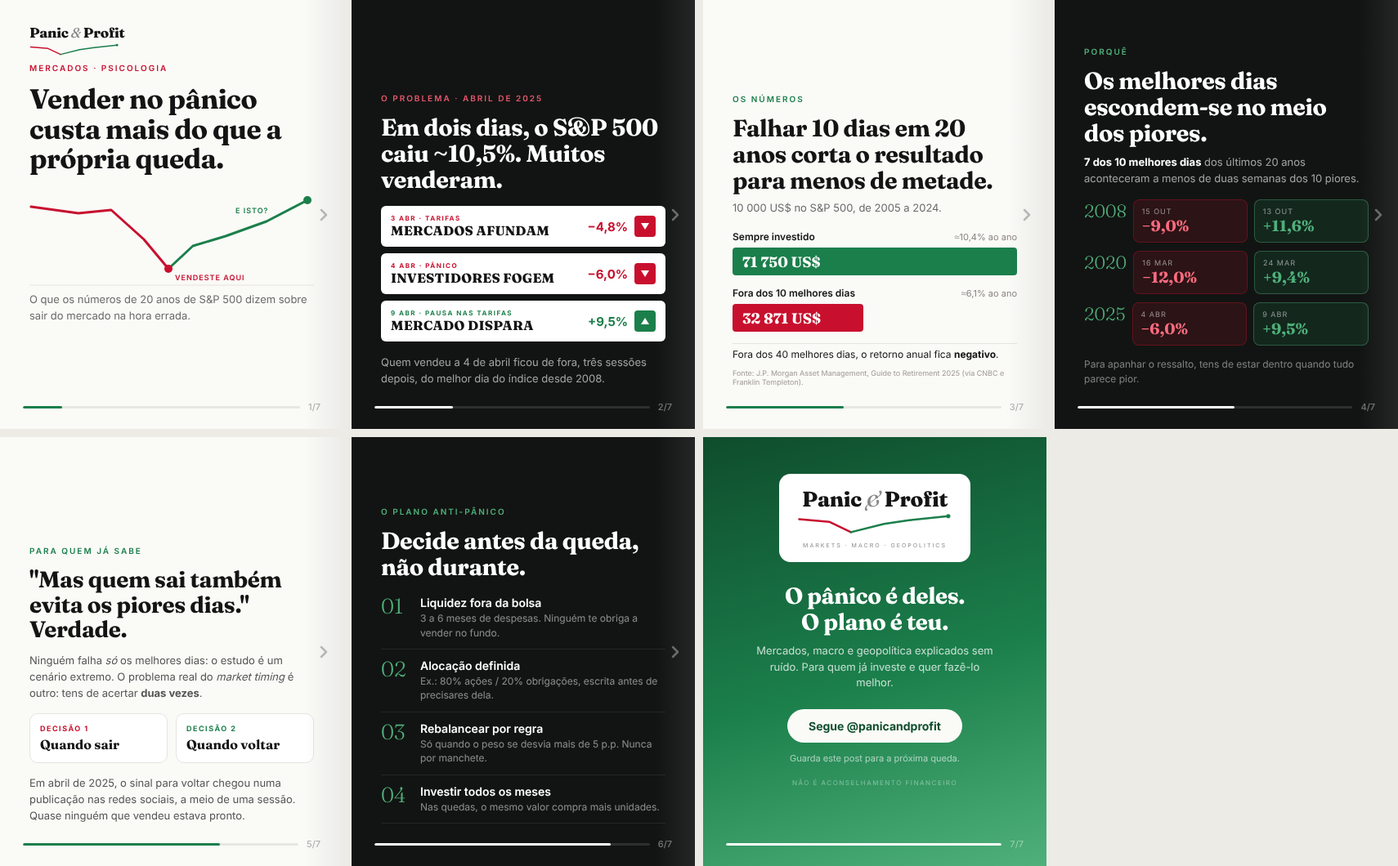
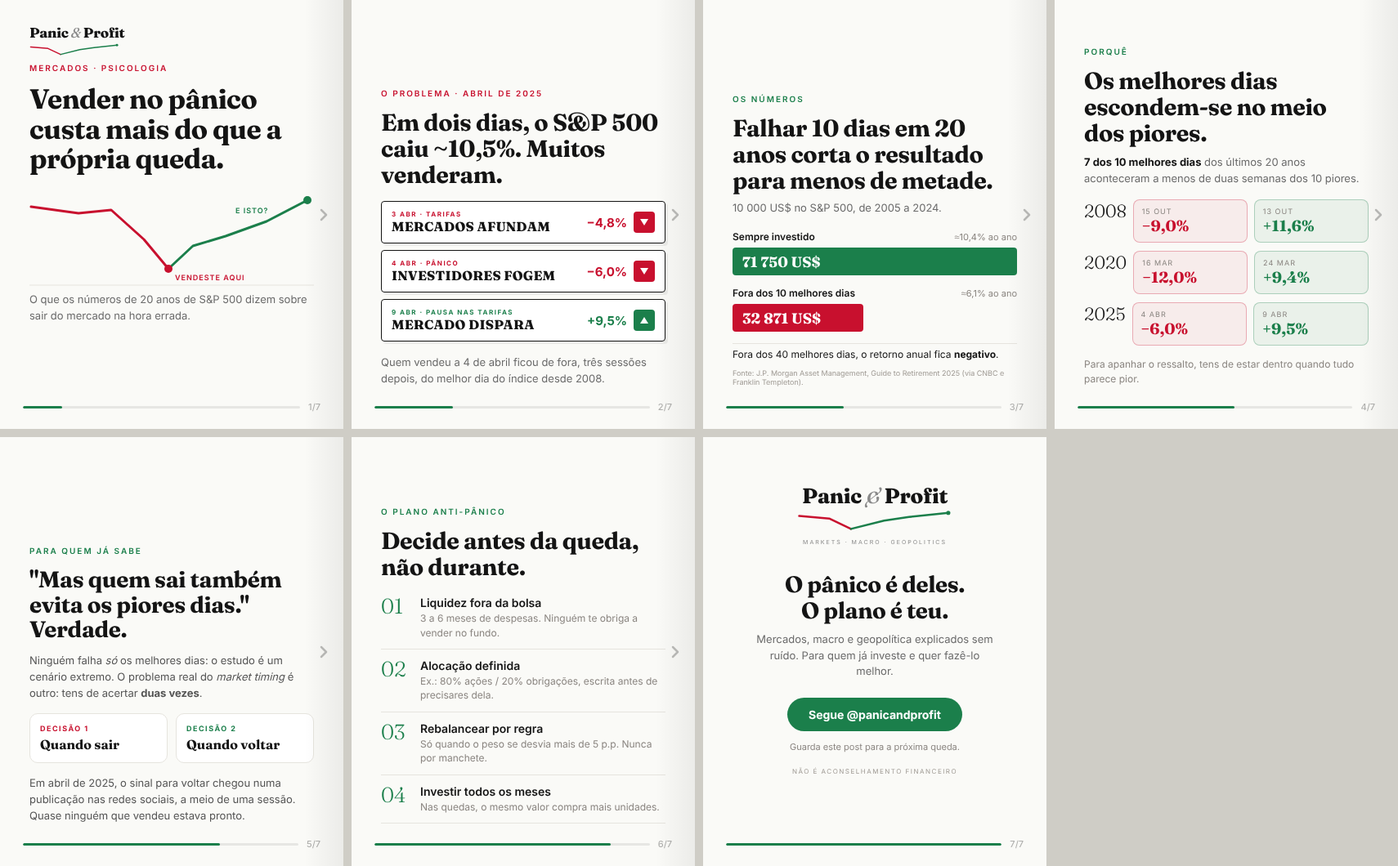
Carousel #1: all slides on light background
Claude-Session: https://claude.ai/code/session_01HEfkBjtX9jJLAwHVacHrK9

diff --git a/instagram/panic-and-profit/carrossel_01_panico.html b/instagram/panic-and-profit/carrossel_01_panico.html
@@ -35,26 +35,26 @@ body{background:#ECEBE6;font-family:'Inter',sans-serif;display:flex;justify-cont
 <text x="252" y="30" font-family="Inter" font-size="9" font-weight="600" fill="#1B7F4B" letter-spacing="1">E ISTO?</text>
 </svg>
 <p class="sans" style="font-size:13px;color:#6B6B6B;line-height:1.5;">O que os números de 20 anos de S&amp;P 500 dizem sobre sair do mercado na hora errada.</p></div>
-<div style="position:absolute;right:0;top:0;bottom:0;width:48px;z-index:9;display:flex;align-items:center;justify-content:center;background:linear-gradient(to right,transparent,rgba(0,0,0,0.06));"><svg width="24" height="24" viewBox="0 0 24 24" fill="none"><path d="M9 6l6 6-6 6" stroke="rgba(0,0,0,0.25)" stroke-width="2.5" stroke-linecap="round" stroke-linejoin="round"/></svg></div><div style="position:absolute;bottom:0;left:0;right:0;padding:16px 28px 20px;z-index:10;display:flex;align-items:center;gap:10px;"><div style="flex:1;height:3px;background:rgba(0,0,0,0.08);border-radius:2px;overflow:hidden;"><div style="height:100%;width:14.29%;background:#1B7F4B;border-radius:2px;"></div></div><span class="sans" style="font-size:11px;color:rgba(0,0,0,0.3);font-weight:500;">1/7</span></div></div><div class="slide" style="background:#121413;">
-<div style="position:absolute;inset:0;padding:0 36px 52px;display:flex;flex-direction:column;justify-content:flex-end;z-index:2;"><span class="sans" style="display:inline-block;font-size:10px;font-weight:600;letter-spacing:2px;color:#E8566C;margin-bottom:14px;">O PROBLEMA · ABRIL DE 2025</span>
-<h2 class="serif" style="font-size:29px;font-weight:700;line-height:1.1;letter-spacing:-0.4px;color:#fff;margin-bottom:16px;">Em dois dias, o S&amp;P 500 caiu ~10,5%. Muitos venderam.</h2>
-<div style="display:flex;align-items:center;justify-content:space-between;background:#fff;border-radius:6px;padding:10px 12px;margin-bottom:8px;">
+<div style="position:absolute;right:0;top:0;bottom:0;width:48px;z-index:9;display:flex;align-items:center;justify-content:center;background:linear-gradient(to right,transparent,rgba(0,0,0,0.06));"><svg width="24" height="24" viewBox="0 0 24 24" fill="none"><path d="M9 6l6 6-6 6" stroke="rgba(0,0,0,0.25)" stroke-width="2.5" stroke-linecap="round" stroke-linejoin="round"/></svg></div><div style="position:absolute;bottom:0;left:0;right:0;padding:16px 28px 20px;z-index:10;display:flex;align-items:center;gap:10px;"><div style="flex:1;height:3px;background:rgba(0,0,0,0.08);border-radius:2px;overflow:hidden;"><div style="height:100%;width:14.29%;background:#1B7F4B;border-radius:2px;"></div></div><span class="sans" style="font-size:11px;color:rgba(0,0,0,0.3);font-weight:500;">1/7</span></div></div><div class="slide" style="background:#FAFAF7;">
+<div style="position:absolute;inset:0;padding:0 36px 52px;display:flex;flex-direction:column;justify-content:flex-end;z-index:2;"><span class="sans" style="display:inline-block;font-size:10px;font-weight:600;letter-spacing:2px;color:#C8102E;margin-bottom:14px;">O PROBLEMA · ABRIL DE 2025</span>
+<h2 class="serif" style="font-size:29px;font-weight:700;line-height:1.1;letter-spacing:-0.4px;color:#141414;margin-bottom:16px;">Em dois dias, o S&amp;P 500 caiu ~10,5%. Muitos venderam.</h2>
+<div style="display:flex;align-items:center;justify-content:space-between;background:#fff;border:1.5px solid #141414;border-radius:4px;padding:10px 12px;margin-bottom:8px;box-shadow:3px 3px 0 rgba(0,0,0,0.06);">
 <div><div class="sans" style="font-size:8px;font-weight:700;letter-spacing:1.5px;color:#C8102E;">3 ABR · TARIFAS</div>
 <div class="serif" style="font-size:16px;font-weight:800;color:#141414;text-transform:uppercase;letter-spacing:0.2px;">Mercados afundam</div></div>
 <div style="display:flex;align-items:center;gap:8px;"><span class="sans" style="font-size:15px;font-weight:700;color:#C8102E;">−4,8%</span>
 <div style="width:26px;height:26px;background:#C8102E;border-radius:4px;display:flex;align-items:center;justify-content:center;"><svg width="12" height="12" viewBox="0 0 12 12"><path d="M1 2 L11 2 L6 10 Z" fill="#fff"/></svg></div></div></div>
-<div style="display:flex;align-items:center;justify-content:space-between;background:#fff;border-radius:6px;padding:10px 12px;margin-bottom:8px;">
+<div style="display:flex;align-items:center;justify-content:space-between;background:#fff;border:1.5px solid #141414;border-radius:4px;padding:10px 12px;margin-bottom:8px;box-shadow:3px 3px 0 rgba(0,0,0,0.06);">
 <div><div class="sans" style="font-size:8px;font-weight:700;letter-spacing:1.5px;color:#C8102E;">4 ABR · PÂNICO</div>
 <div class="serif" style="font-size:16px;font-weight:800;color:#141414;text-transform:uppercase;letter-spacing:0.2px;">Investidores fogem</div></div>
 <div style="display:flex;align-items:center;gap:8px;"><span class="sans" style="font-size:15px;font-weight:700;color:#C8102E;">−6,0%</span>
 <div style="width:26px;height:26px;background:#C8102E;border-radius:4px;display:flex;align-items:center;justify-content:center;"><svg width="12" height="12" viewBox="0 0 12 12"><path d="M1 2 L11 2 L6 10 Z" fill="#fff"/></svg></div></div></div>
-<div style="display:flex;align-items:center;justify-content:space-between;background:#fff;border-radius:6px;padding:10px 12px;margin-bottom:8px;">
+<div style="display:flex;align-items:center;justify-content:space-between;background:#fff;border:1.5px solid #141414;border-radius:4px;padding:10px 12px;margin-bottom:8px;box-shadow:3px 3px 0 rgba(0,0,0,0.06);">
 <div><div class="sans" style="font-size:8px;font-weight:700;letter-spacing:1.5px;color:#1B7F4B;">9 ABR · PAUSA NAS TARIFAS</div>
 <div class="serif" style="font-size:16px;font-weight:800;color:#141414;text-transform:uppercase;letter-spacing:0.2px;">Mercado dispara</div></div>
 <div style="display:flex;align-items:center;gap:8px;"><span class="sans" style="font-size:15px;font-weight:700;color:#1B7F4B;">+9,5%</span>
 <div style="width:26px;height:26px;background:#1B7F4B;border-radius:4px;display:flex;align-items:center;justify-content:center;"><svg width="12" height="12" viewBox="0 0 12 12"><path d="M6 2 L11 10 L1 10 Z" fill="#fff"/></svg></div></div></div>
-<p class="sans" style="font-size:13px;color:rgba(255,255,255,0.6);line-height:1.5;margin-top:8px;">Quem vendeu a 4 de abril ficou de fora, três sessões depois, do melhor dia do índice desde 2008.</p></div>
-<div style="position:absolute;right:0;top:0;bottom:0;width:48px;z-index:9;display:flex;align-items:center;justify-content:center;background:linear-gradient(to right,transparent,rgba(255,255,255,0.08));"><svg width="24" height="24" viewBox="0 0 24 24" fill="none"><path d="M9 6l6 6-6 6" stroke="rgba(255,255,255,0.35)" stroke-width="2.5" stroke-linecap="round" stroke-linejoin="round"/></svg></div><div style="position:absolute;bottom:0;left:0;right:0;padding:16px 28px 20px;z-index:10;display:flex;align-items:center;gap:10px;"><div style="flex:1;height:3px;background:rgba(255,255,255,0.12);border-radius:2px;overflow:hidden;"><div style="height:100%;width:28.57%;background:#fff;border-radius:2px;"></div></div><span class="sans" style="font-size:11px;color:rgba(255,255,255,0.4);font-weight:500;">2/7</span></div></div><div class="slide" style="background:#FAFAF7;">
+<p class="sans" style="font-size:13px;color:#6B6B6B;line-height:1.5;margin-top:8px;">Quem vendeu a 4 de abril ficou de fora, três sessões depois, do melhor dia do índice desde 2008.</p></div>
+<div style="position:absolute;right:0;top:0;bottom:0;width:48px;z-index:9;display:flex;align-items:center;justify-content:center;background:linear-gradient(to right,transparent,rgba(0,0,0,0.06));"><svg width="24" height="24" viewBox="0 0 24 24" fill="none"><path d="M9 6l6 6-6 6" stroke="rgba(0,0,0,0.25)" stroke-width="2.5" stroke-linecap="round" stroke-linejoin="round"/></svg></div><div style="position:absolute;bottom:0;left:0;right:0;padding:16px 28px 20px;z-index:10;display:flex;align-items:center;gap:10px;"><div style="flex:1;height:3px;background:rgba(0,0,0,0.08);border-radius:2px;overflow:hidden;"><div style="height:100%;width:28.57%;background:#1B7F4B;border-radius:2px;"></div></div><span class="sans" style="font-size:11px;color:rgba(0,0,0,0.3);font-weight:500;">2/7</span></div></div><div class="slide" style="background:#FAFAF7;">
 <div style="position:absolute;inset:0;padding:0 36px 52px;display:flex;flex-direction:column;justify-content:flex-end;z-index:2;"><span class="sans" style="display:inline-block;font-size:10px;font-weight:600;letter-spacing:2px;color:#1B7F4B;margin-bottom:14px;">OS NÚMEROS</span>
 <h2 class="serif" style="font-size:29px;font-weight:700;line-height:1.1;letter-spacing:-0.4px;color:#141414;margin-bottom:8px;">Falhar 10 dias em 20 anos corta o resultado para menos de metade.</h2>
 <p class="sans" style="font-size:13px;color:#6B6B6B;line-height:1.5;margin-bottom:18px;">10 000 US$ no S&amp;P 500, de 2005 a 2024.</p>
@@ -68,24 +68,24 @@ body{background:#ECEBE6;font-family:'Inter',sans-serif;display:flex;justify-cont
 <span class="serif" style="font-size:18px;font-weight:700;color:#fff;">32 871 US$</span></div></div>
 <p class="sans" style="font-size:12px;color:#141414;line-height:1.5;padding-top:4px;border-top:1px solid #E6E4DE;">Fora dos 40 melhores dias, o retorno anual fica <b>negativo</b>.</p>
 <p class="sans" style="font-size:9px;color:#A09B95;margin-top:8px;">Fonte: J.P. Morgan Asset Management, Guide to Retirement 2025 (via CNBC e Franklin Templeton).</p></div>
-<div style="position:absolute;right:0;top:0;bottom:0;width:48px;z-index:9;display:flex;align-items:center;justify-content:center;background:linear-gradient(to right,transparent,rgba(0,0,0,0.06));"><svg width="24" height="24" viewBox="0 0 24 24" fill="none"><path d="M9 6l6 6-6 6" stroke="rgba(0,0,0,0.25)" stroke-width="2.5" stroke-linecap="round" stroke-linejoin="round"/></svg></div><div style="position:absolute;bottom:0;left:0;right:0;padding:16px 28px 20px;z-index:10;display:flex;align-items:center;gap:10px;"><div style="flex:1;height:3px;background:rgba(0,0,0,0.08);border-radius:2px;overflow:hidden;"><div style="height:100%;width:42.86%;background:#1B7F4B;border-radius:2px;"></div></div><span class="sans" style="font-size:11px;color:rgba(0,0,0,0.3);font-weight:500;">3/7</span></div></div><div class="slide" style="background:#121413;">
-<div style="position:absolute;inset:0;padding:0 36px 52px;display:flex;flex-direction:column;justify-content:flex-end;z-index:2;"><span class="sans" style="display:inline-block;font-size:10px;font-weight:600;letter-spacing:2px;color:#4FB07A;margin-bottom:14px;">PORQUÊ</span>
-<h2 class="serif" style="font-size:29px;font-weight:700;line-height:1.1;letter-spacing:-0.4px;color:#fff;margin-bottom:10px;">Os melhores dias escondem-se no meio dos piores.</h2>
-<p class="sans" style="font-size:13px;color:rgba(255,255,255,0.6);line-height:1.5;margin-bottom:16px;"><b style="color:#fff;">7 dos 10 melhores dias</b> dos últimos 20 anos aconteceram a menos de duas semanas dos 10 piores.</p>
+<div style="position:absolute;right:0;top:0;bottom:0;width:48px;z-index:9;display:flex;align-items:center;justify-content:center;background:linear-gradient(to right,transparent,rgba(0,0,0,0.06));"><svg width="24" height="24" viewBox="0 0 24 24" fill="none"><path d="M9 6l6 6-6 6" stroke="rgba(0,0,0,0.25)" stroke-width="2.5" stroke-linecap="round" stroke-linejoin="round"/></svg></div><div style="position:absolute;bottom:0;left:0;right:0;padding:16px 28px 20px;z-index:10;display:flex;align-items:center;gap:10px;"><div style="flex:1;height:3px;background:rgba(0,0,0,0.08);border-radius:2px;overflow:hidden;"><div style="height:100%;width:42.86%;background:#1B7F4B;border-radius:2px;"></div></div><span class="sans" style="font-size:11px;color:rgba(0,0,0,0.3);font-weight:500;">3/7</span></div></div><div class="slide" style="background:#FAFAF7;">
+<div style="position:absolute;inset:0;padding:0 36px 52px;display:flex;flex-direction:column;justify-content:flex-end;z-index:2;"><span class="sans" style="display:inline-block;font-size:10px;font-weight:600;letter-spacing:2px;color:#1B7F4B;margin-bottom:14px;">PORQUÊ</span>
+<h2 class="serif" style="font-size:29px;font-weight:700;line-height:1.1;letter-spacing:-0.4px;color:#141414;margin-bottom:10px;">Os melhores dias escondem-se no meio dos piores.</h2>
+<p class="sans" style="font-size:13px;color:#6B6B6B;line-height:1.5;margin-bottom:16px;"><b style="color:#141414;">7 dos 10 melhores dias</b> dos últimos 20 anos aconteceram a menos de duas semanas dos 10 piores.</p>
 <div style="display:flex;gap:8px;margin-bottom:10px;">
-<div style="flex:0 0 46px;" class="serif"><span style="font-size:22px;font-weight:300;color:#4FB07A;">2008</span></div>
-<div style="flex:1;background:rgba(200,16,46,0.14);border:1px solid rgba(200,16,46,0.35);border-radius:8px;padding:8px 10px;"><div class="sans" style="font-size:9px;letter-spacing:1px;color:rgba(255,255,255,0.5);">15 OUT</div><div class="serif" style="font-size:19px;font-weight:700;color:#FF6B7F;">−9,0%</div></div>
-<div style="flex:1;background:rgba(27,127,75,0.18);border:1px solid rgba(79,176,122,0.4);border-radius:8px;padding:8px 10px;"><div class="sans" style="font-size:9px;letter-spacing:1px;color:rgba(255,255,255,0.5);">13 OUT</div><div class="serif" style="font-size:19px;font-weight:700;color:#4FB07A;">+11,6%</div></div></div>
+<div style="flex:0 0 46px;" class="serif"><span style="font-size:22px;font-weight:300;color:#141414;">2008</span></div>
+<div style="flex:1;background:rgba(200,16,46,0.06);border:1px solid rgba(200,16,46,0.3);border-radius:8px;padding:8px 10px;"><div class="sans" style="font-size:9px;letter-spacing:1px;color:#8A8580;">15 OUT</div><div class="serif" style="font-size:19px;font-weight:700;color:#C8102E;">−9,0%</div></div>
+<div style="flex:1;background:rgba(27,127,75,0.07);border:1px solid rgba(27,127,75,0.3);border-radius:8px;padding:8px 10px;"><div class="sans" style="font-size:9px;letter-spacing:1px;color:#8A8580;">13 OUT</div><div class="serif" style="font-size:19px;font-weight:700;color:#1B7F4B;">+11,6%</div></div></div>
 <div style="display:flex;gap:8px;margin-bottom:10px;">
-<div style="flex:0 0 46px;" class="serif"><span style="font-size:22px;font-weight:300;color:#4FB07A;">2020</span></div>
-<div style="flex:1;background:rgba(200,16,46,0.14);border:1px solid rgba(200,16,46,0.35);border-radius:8px;padding:8px 10px;"><div class="sans" style="font-size:9px;letter-spacing:1px;color:rgba(255,255,255,0.5);">16 MAR</div><div class="serif" style="font-size:19px;font-weight:700;color:#FF6B7F;">−12,0%</div></div>
-<div style="flex:1;background:rgba(27,127,75,0.18);border:1px solid rgba(79,176,122,0.4);border-radius:8px;padding:8px 10px;"><div class="sans" style="font-size:9px;letter-spacing:1px;color:rgba(255,255,255,0.5);">24 MAR</div><div class="serif" style="font-size:19px;font-weight:700;color:#4FB07A;">+9,4%</div></div></div>
+<div style="flex:0 0 46px;" class="serif"><span style="font-size:22px;font-weight:300;color:#141414;">2020</span></div>
+<div style="flex:1;background:rgba(200,16,46,0.06);border:1px solid rgba(200,16,46,0.3);border-radius:8px;padding:8px 10px;"><div class="sans" style="font-size:9px;letter-spacing:1px;color:#8A8580;">16 MAR</div><div class="serif" style="font-size:19px;font-weight:700;color:#C8102E;">−12,0%</div></div>
+<div style="flex:1;background:rgba(27,127,75,0.07);border:1px solid rgba(27,127,75,0.3);border-radius:8px;padding:8px 10px;"><div class="sans" style="font-size:9px;letter-spacing:1px;color:#8A8580;">24 MAR</div><div class="serif" style="font-size:19px;font-weight:700;color:#1B7F4B;">+9,4%</div></div></div>
 <div style="display:flex;gap:8px;margin-bottom:10px;">
-<div style="flex:0 0 46px;" class="serif"><span style="font-size:22px;font-weight:300;color:#4FB07A;">2025</span></div>
-<div style="flex:1;background:rgba(200,16,46,0.14);border:1px solid rgba(200,16,46,0.35);border-radius:8px;padding:8px 10px;"><div class="sans" style="font-size:9px;letter-spacing:1px;color:rgba(255,255,255,0.5);">4 ABR</div><div class="serif" style="font-size:19px;font-weight:700;color:#FF6B7F;">−6,0%</div></div>
-<div style="flex:1;background:rgba(27,127,75,0.18);border:1px solid rgba(79,176,122,0.4);border-radius:8px;padding:8px 10px;"><div class="sans" style="font-size:9px;letter-spacing:1px;color:rgba(255,255,255,0.5);">9 ABR</div><div class="serif" style="font-size:19px;font-weight:700;color:#4FB07A;">+9,5%</div></div></div>
-<p class="sans" style="font-size:12px;color:rgba(255,255,255,0.45);line-height:1.5;margin-top:4px;">Para apanhar o ressalto, tens de estar dentro quando tudo parece pior.</p></div>
-<div style="position:absolute;right:0;top:0;bottom:0;width:48px;z-index:9;display:flex;align-items:center;justify-content:center;background:linear-gradient(to right,transparent,rgba(255,255,255,0.08));"><svg width="24" height="24" viewBox="0 0 24 24" fill="none"><path d="M9 6l6 6-6 6" stroke="rgba(255,255,255,0.35)" stroke-width="2.5" stroke-linecap="round" stroke-linejoin="round"/></svg></div><div style="position:absolute;bottom:0;left:0;right:0;padding:16px 28px 20px;z-index:10;display:flex;align-items:center;gap:10px;"><div style="flex:1;height:3px;background:rgba(255,255,255,0.12);border-radius:2px;overflow:hidden;"><div style="height:100%;width:57.14%;background:#fff;border-radius:2px;"></div></div><span class="sans" style="font-size:11px;color:rgba(255,255,255,0.4);font-weight:500;">4/7</span></div></div><div class="slide" style="background:#FAFAF7;">
+<div style="flex:0 0 46px;" class="serif"><span style="font-size:22px;font-weight:300;color:#141414;">2025</span></div>
+<div style="flex:1;background:rgba(200,16,46,0.06);border:1px solid rgba(200,16,46,0.3);border-radius:8px;padding:8px 10px;"><div class="sans" style="font-size:9px;letter-spacing:1px;color:#8A8580;">4 ABR</div><div class="serif" style="font-size:19px;font-weight:700;color:#C8102E;">−6,0%</div></div>
+<div style="flex:1;background:rgba(27,127,75,0.07);border:1px solid rgba(27,127,75,0.3);border-radius:8px;padding:8px 10px;"><div class="sans" style="font-size:9px;letter-spacing:1px;color:#8A8580;">9 ABR</div><div class="serif" style="font-size:19px;font-weight:700;color:#1B7F4B;">+9,5%</div></div></div>
+<p class="sans" style="font-size:12px;color:#8A8580;line-height:1.5;margin-top:4px;">Para apanhar o ressalto, tens de estar dentro quando tudo parece pior.</p></div>
+<div style="position:absolute;right:0;top:0;bottom:0;width:48px;z-index:9;display:flex;align-items:center;justify-content:center;background:linear-gradient(to right,transparent,rgba(0,0,0,0.06));"><svg width="24" height="24" viewBox="0 0 24 24" fill="none"><path d="M9 6l6 6-6 6" stroke="rgba(0,0,0,0.25)" stroke-width="2.5" stroke-linecap="round" stroke-linejoin="round"/></svg></div><div style="position:absolute;bottom:0;left:0;right:0;padding:16px 28px 20px;z-index:10;display:flex;align-items:center;gap:10px;"><div style="flex:1;height:3px;background:rgba(0,0,0,0.08);border-radius:2px;overflow:hidden;"><div style="height:100%;width:57.14%;background:#1B7F4B;border-radius:2px;"></div></div><span class="sans" style="font-size:11px;color:rgba(0,0,0,0.3);font-weight:500;">4/7</span></div></div><div class="slide" style="background:#FAFAF7;">
 <div style="position:absolute;inset:0;padding:0 36px 52px;display:flex;flex-direction:column;justify-content:flex-end;z-index:2;"><span class="sans" style="display:inline-block;font-size:10px;font-weight:600;letter-spacing:2px;color:#1B7F4B;margin-bottom:14px;">PARA QUEM JÁ SABE</span>
 <h2 class="serif" style="font-size:28px;font-weight:700;line-height:1.1;letter-spacing:-0.4px;color:#141414;margin-bottom:12px;">"Mas quem sai também evita os piores dias." Verdade.</h2>
 <p class="sans" style="font-size:13px;color:#555;line-height:1.55;margin-bottom:14px;">Ninguém falha <i>só</i> os melhores dias: o estudo é um cenário extremo. O problema real do <i>market timing</i> é outro: tens de acertar <b>duas vezes</b>.</p>
@@ -93,30 +93,30 @@ body{background:#ECEBE6;font-family:'Inter',sans-serif;display:flex;justify-cont
 <div style="flex:1;border:1px solid #E6E4DE;border-radius:10px;padding:12px;background:#fff;"><div class="sans" style="font-size:9px;font-weight:700;letter-spacing:1.5px;color:#C8102E;">DECISÃO 1</div><div class="serif" style="font-size:16px;font-weight:700;color:#141414;margin-top:4px;">Quando sair</div></div>
 <div style="flex:1;border:1px solid #E6E4DE;border-radius:10px;padding:12px;background:#fff;"><div class="sans" style="font-size:9px;font-weight:700;letter-spacing:1.5px;color:#1B7F4B;">DECISÃO 2</div><div class="serif" style="font-size:16px;font-weight:700;color:#141414;margin-top:4px;">Quando voltar</div></div></div>
 <p class="sans" style="font-size:13px;color:#555;line-height:1.55;">Em abril de 2025, o sinal para voltar chegou numa publicação nas redes sociais, a meio de uma sessão. Quase ninguém que vendeu estava pronto.</p></div>
-<div style="position:absolute;right:0;top:0;bottom:0;width:48px;z-index:9;display:flex;align-items:center;justify-content:center;background:linear-gradient(to right,transparent,rgba(0,0,0,0.06));"><svg width="24" height="24" viewBox="0 0 24 24" fill="none"><path d="M9 6l6 6-6 6" stroke="rgba(0,0,0,0.25)" stroke-width="2.5" stroke-linecap="round" stroke-linejoin="round"/></svg></div><div style="position:absolute;bottom:0;left:0;right:0;padding:16px 28px 20px;z-index:10;display:flex;align-items:center;gap:10px;"><div style="flex:1;height:3px;background:rgba(0,0,0,0.08);border-radius:2px;overflow:hidden;"><div style="height:100%;width:71.43%;background:#1B7F4B;border-radius:2px;"></div></div><span class="sans" style="font-size:11px;color:rgba(0,0,0,0.3);font-weight:500;">5/7</span></div></div><div class="slide" style="background:#121413;">
-<div style="position:absolute;inset:0;padding:0 36px 52px;display:flex;flex-direction:column;justify-content:flex-end;z-index:2;"><span class="sans" style="display:inline-block;font-size:10px;font-weight:600;letter-spacing:2px;color:#4FB07A;margin-bottom:14px;">O PLANO ANTI-PÂNICO</span>
-<h2 class="serif" style="font-size:29px;font-weight:700;line-height:1.1;letter-spacing:-0.4px;color:#fff;margin-bottom:8px;">Decide antes da queda, não durante.</h2>
-<div style="display:flex;align-items:flex-start;gap:14px;padding:11px 0;border-bottom:1px solid rgba(255,255,255,0.08);">
-<span class="serif" style="font-size:26px;font-weight:300;color:#4FB07A;min-width:34px;line-height:1;">01</span>
-<div><div class="sans" style="font-size:14px;font-weight:600;color:#fff;">Liquidez fora da bolsa</div><div class="sans" style="font-size:12px;color:rgba(255,255,255,0.5);line-height:1.45;margin-top:2px;">3 a 6 meses de despesas. Ninguém te obriga a vender no fundo.</div></div></div>
-<div style="display:flex;align-items:flex-start;gap:14px;padding:11px 0;border-bottom:1px solid rgba(255,255,255,0.08);">
-<span class="serif" style="font-size:26px;font-weight:300;color:#4FB07A;min-width:34px;line-height:1;">02</span>
-<div><div class="sans" style="font-size:14px;font-weight:600;color:#fff;">Alocação definida</div><div class="sans" style="font-size:12px;color:rgba(255,255,255,0.5);line-height:1.45;margin-top:2px;">Ex.: 80% ações / 20% obrigações, escrita antes de precisares dela.</div></div></div>
-<div style="display:flex;align-items:flex-start;gap:14px;padding:11px 0;border-bottom:1px solid rgba(255,255,255,0.08);">
-<span class="serif" style="font-size:26px;font-weight:300;color:#4FB07A;min-width:34px;line-height:1;">03</span>
-<div><div class="sans" style="font-size:14px;font-weight:600;color:#fff;">Rebalancear por regra</div><div class="sans" style="font-size:12px;color:rgba(255,255,255,0.5);line-height:1.45;margin-top:2px;">Só quando o peso se desvia mais de 5 p.p. Nunca por manchete.</div></div></div>
-<div style="display:flex;align-items:flex-start;gap:14px;padding:11px 0;border-bottom:1px solid rgba(255,255,255,0.08);">
-<span class="serif" style="font-size:26px;font-weight:300;color:#4FB07A;min-width:34px;line-height:1;">04</span>
-<div><div class="sans" style="font-size:14px;font-weight:600;color:#fff;">Investir todos os meses</div><div class="sans" style="font-size:12px;color:rgba(255,255,255,0.5);line-height:1.45;margin-top:2px;">Nas quedas, o mesmo valor compra mais unidades.</div></div></div></div>
-<div style="position:absolute;right:0;top:0;bottom:0;width:48px;z-index:9;display:flex;align-items:center;justify-content:center;background:linear-gradient(to right,transparent,rgba(255,255,255,0.08));"><svg width="24" height="24" viewBox="0 0 24 24" fill="none"><path d="M9 6l6 6-6 6" stroke="rgba(255,255,255,0.35)" stroke-width="2.5" stroke-linecap="round" stroke-linejoin="round"/></svg></div><div style="position:absolute;bottom:0;left:0;right:0;padding:16px 28px 20px;z-index:10;display:flex;align-items:center;gap:10px;"><div style="flex:1;height:3px;background:rgba(255,255,255,0.12);border-radius:2px;overflow:hidden;"><div style="height:100%;width:85.71%;background:#fff;border-radius:2px;"></div></div><span class="sans" style="font-size:11px;color:rgba(255,255,255,0.4);font-weight:500;">6/7</span></div></div><div class="slide" style="background:linear-gradient(165deg,#0F4D2D 0%,#1B7F4B 55%,#4FB07A 100%);">
+<div style="position:absolute;right:0;top:0;bottom:0;width:48px;z-index:9;display:flex;align-items:center;justify-content:center;background:linear-gradient(to right,transparent,rgba(0,0,0,0.06));"><svg width="24" height="24" viewBox="0 0 24 24" fill="none"><path d="M9 6l6 6-6 6" stroke="rgba(0,0,0,0.25)" stroke-width="2.5" stroke-linecap="round" stroke-linejoin="round"/></svg></div><div style="position:absolute;bottom:0;left:0;right:0;padding:16px 28px 20px;z-index:10;display:flex;align-items:center;gap:10px;"><div style="flex:1;height:3px;background:rgba(0,0,0,0.08);border-radius:2px;overflow:hidden;"><div style="height:100%;width:71.43%;background:#1B7F4B;border-radius:2px;"></div></div><span class="sans" style="font-size:11px;color:rgba(0,0,0,0.3);font-weight:500;">5/7</span></div></div><div class="slide" style="background:#FAFAF7;">
+<div style="position:absolute;inset:0;padding:0 36px 52px;display:flex;flex-direction:column;justify-content:flex-end;z-index:2;"><span class="sans" style="display:inline-block;font-size:10px;font-weight:600;letter-spacing:2px;color:#1B7F4B;margin-bottom:14px;">O PLANO ANTI-PÂNICO</span>
+<h2 class="serif" style="font-size:29px;font-weight:700;line-height:1.1;letter-spacing:-0.4px;color:#141414;margin-bottom:8px;">Decide antes da queda, não durante.</h2>
+<div style="display:flex;align-items:flex-start;gap:14px;padding:11px 0;border-bottom:1px solid #E6E4DE;">
+<span class="serif" style="font-size:26px;font-weight:300;color:#1B7F4B;min-width:34px;line-height:1;">01</span>
+<div><div class="sans" style="font-size:14px;font-weight:600;color:#141414;">Liquidez fora da bolsa</div><div class="sans" style="font-size:12px;color:#8A8580;line-height:1.45;margin-top:2px;">3 a 6 meses de despesas. Ninguém te obriga a vender no fundo.</div></div></div>
+<div style="display:flex;align-items:flex-start;gap:14px;padding:11px 0;border-bottom:1px solid #E6E4DE;">
+<span class="serif" style="font-size:26px;font-weight:300;color:#1B7F4B;min-width:34px;line-height:1;">02</span>
+<div><div class="sans" style="font-size:14px;font-weight:600;color:#141414;">Alocação definida</div><div class="sans" style="font-size:12px;color:#8A8580;line-height:1.45;margin-top:2px;">Ex.: 80% ações / 20% obrigações, escrita antes de precisares dela.</div></div></div>
+<div style="display:flex;align-items:flex-start;gap:14px;padding:11px 0;border-bottom:1px solid #E6E4DE;">
+<span class="serif" style="font-size:26px;font-weight:300;color:#1B7F4B;min-width:34px;line-height:1;">03</span>
+<div><div class="sans" style="font-size:14px;font-weight:600;color:#141414;">Rebalancear por regra</div><div class="sans" style="font-size:12px;color:#8A8580;line-height:1.45;margin-top:2px;">Só quando o peso se desvia mais de 5 p.p. Nunca por manchete.</div></div></div>
+<div style="display:flex;align-items:flex-start;gap:14px;padding:11px 0;border-bottom:1px solid #E6E4DE;">
+<span class="serif" style="font-size:26px;font-weight:300;color:#1B7F4B;min-width:34px;line-height:1;">04</span>
+<div><div class="sans" style="font-size:14px;font-weight:600;color:#141414;">Investir todos os meses</div><div class="sans" style="font-size:12px;color:#8A8580;line-height:1.45;margin-top:2px;">Nas quedas, o mesmo valor compra mais unidades.</div></div></div></div>
+<div style="position:absolute;right:0;top:0;bottom:0;width:48px;z-index:9;display:flex;align-items:center;justify-content:center;background:linear-gradient(to right,transparent,rgba(0,0,0,0.06));"><svg width="24" height="24" viewBox="0 0 24 24" fill="none"><path d="M9 6l6 6-6 6" stroke="rgba(0,0,0,0.25)" stroke-width="2.5" stroke-linecap="round" stroke-linejoin="round"/></svg></div><div style="position:absolute;bottom:0;left:0;right:0;padding:16px 28px 20px;z-index:10;display:flex;align-items:center;gap:10px;"><div style="flex:1;height:3px;background:rgba(0,0,0,0.08);border-radius:2px;overflow:hidden;"><div style="height:100%;width:85.71%;background:#1B7F4B;border-radius:2px;"></div></div><span class="sans" style="font-size:11px;color:rgba(0,0,0,0.3);font-weight:500;">6/7</span></div></div><div class="slide" style="background:#FAFAF7;">
 <div style="position:absolute;inset:0;padding:0 36px 52px;display:flex;flex-direction:column;justify-content:center;z-index:2;"><div style="text-align:center;display:flex;flex-direction:column;align-items:center;">
-<div style="background:#fff;border-radius:14px;padding:18px 22px 14px;margin-bottom:26px;"><div style="display:inline-block;"><div class="serif" style="font-size:26px;font-weight:800;color:#141414;letter-spacing:-0.3px;line-height:1;">Panic <span style="font-style:italic;font-weight:500;color:#8A8A8A;">&amp;</span> Profit</div><svg width="190" height="29" viewBox="0 0 300 42" fill="none" style="display:block;margin-top:4px;"><polyline points="4,10 62,15 104,35" stroke="#C8102E" stroke-width="4" stroke-linecap="round" stroke-linejoin="round"/><polyline points="104,35 168,19 216,12 292,4" stroke="#1B7F4B" stroke-width="4" stroke-linecap="round" stroke-linejoin="round"/><circle cx="292" cy="4" r="4" fill="#1B7F4B"/></svg><div class="sans" style="font-size:7px;letter-spacing:2px;color:#8A8A8A;margin-top:6px;">MARKETS · MACRO · GEOPOLITICS</div></div></div>
-<h2 class="serif" style="font-size:28px;font-weight:700;line-height:1.12;letter-spacing:-0.4px;color:#fff;margin-bottom:10px;">O pânico é deles.<br>O plano é teu.</h2>
-<p class="sans" style="font-size:13px;color:rgba(255,255,255,0.75);line-height:1.5;margin-bottom:22px;max-width:290px;">Mercados, macro e geopolítica explicados sem ruído. Para quem já investe e quer fazê-lo melhor.</p>
-<div class="sans" style="display:inline-flex;align-items:center;gap:8px;padding:12px 26px;background:#FAFAF7;color:#0F4D2D;font-weight:700;font-size:14px;border-radius:28px;">Segue @panicandprofit</div>
-<p class="sans" style="font-size:11px;color:rgba(255,255,255,0.6);margin-top:12px;">Guarda este post para a próxima queda.</p>
-<p class="sans" style="font-size:8px;letter-spacing:1.5px;color:rgba(255,255,255,0.4);margin-top:18px;">NÃO É ACONSELHAMENTO FINANCEIRO</p></div></div>
-<div style="position:absolute;bottom:0;left:0;right:0;padding:16px 28px 20px;z-index:10;display:flex;align-items:center;gap:10px;"><div style="flex:1;height:3px;background:rgba(255,255,255,0.12);border-radius:2px;overflow:hidden;"><div style="height:100%;width:100.00%;background:#fff;border-radius:2px;"></div></div><span class="sans" style="font-size:11px;color:rgba(255,255,255,0.4);font-weight:500;">7/7</span></div></div></div></div>
+<div style="padding:0 0 4px;margin-bottom:26px;"><div style="display:inline-block;"><div class="serif" style="font-size:26px;font-weight:800;color:#141414;letter-spacing:-0.3px;line-height:1;">Panic <span style="font-style:italic;font-weight:500;color:#8A8A8A;">&amp;</span> Profit</div><svg width="190" height="29" viewBox="0 0 300 42" fill="none" style="display:block;margin-top:4px;"><polyline points="4,10 62,15 104,35" stroke="#C8102E" stroke-width="4" stroke-linecap="round" stroke-linejoin="round"/><polyline points="104,35 168,19 216,12 292,4" stroke="#1B7F4B" stroke-width="4" stroke-linecap="round" stroke-linejoin="round"/><circle cx="292" cy="4" r="4" fill="#1B7F4B"/></svg><div class="sans" style="font-size:7px;letter-spacing:2px;color:#8A8A8A;margin-top:6px;">MARKETS · MACRO · GEOPOLITICS</div></div></div>
+<h2 class="serif" style="font-size:28px;font-weight:700;line-height:1.12;letter-spacing:-0.4px;color:#141414;margin-bottom:10px;">O pânico é deles.<br>O plano é teu.</h2>
+<p class="sans" style="font-size:13px;color:#6B6B6B;line-height:1.5;margin-bottom:22px;max-width:290px;">Mercados, macro e geopolítica explicados sem ruído. Para quem já investe e quer fazê-lo melhor.</p>
+<div class="sans" style="display:inline-flex;align-items:center;gap:8px;padding:12px 26px;background:#1B7F4B;color:#fff;font-weight:700;font-size:14px;border-radius:28px;">Segue @panicandprofit</div>
+<p class="sans" style="font-size:11px;color:#8A8580;margin-top:12px;">Guarda este post para a próxima queda.</p>
+<p class="sans" style="font-size:8px;letter-spacing:1.5px;color:#A09B95;margin-top:18px;">NÃO É ACONSELHAMENTO FINANCEIRO</p></div></div>
+<div style="position:absolute;bottom:0;left:0;right:0;padding:16px 28px 20px;z-index:10;display:flex;align-items:center;gap:10px;"><div style="flex:1;height:3px;background:rgba(0,0,0,0.08);border-radius:2px;overflow:hidden;"><div style="height:100%;width:100.00%;background:#1B7F4B;border-radius:2px;"></div></div><span class="sans" style="font-size:11px;color:rgba(0,0,0,0.3);font-weight:500;">7/7</span></div></div></div></div>
 <div class="ig-dots"><span class="on"></span><span></span><span></span><span></span><span></span><span></span><span></span></div>
 <div class="ig-actions"><div>
 <svg width="24" height="24" fill="none" stroke="#111" stroke-width="2" viewBox="0 0 24 24"><path d="M12 21s-7-4.5-9.5-9A5.5 5.5 0 0 1 12 6a5.5 5.5 0 0 1 9.5 6c-2.5 4.5-9.5 9-9.5 9z"/></svg>

diff --git a/instagram/panic-and-profit/build.py b/instagram/panic-and-profit/build.py
@@ -53,18 +53,18 @@ slides.append(slide(0,LBG,b1,True,justify="center"))
 def card(date,title,val,up):
     c=P if up else RED
     tri="M6 2 L11 10 L1 10 Z" if up else "M1 2 L11 2 L6 10 Z"
-    return f'''<div style="display:flex;align-items:center;justify-content:space-between;background:#fff;border-radius:6px;padding:10px 12px;margin-bottom:8px;">
+    return f'''<div style="display:flex;align-items:center;justify-content:space-between;background:#fff;border:1.5px solid {INK};border-radius:4px;padding:10px 12px;margin-bottom:8px;box-shadow:3px 3px 0 rgba(0,0,0,0.06);">
 <div><div class="sans" style="font-size:8px;font-weight:700;letter-spacing:1.5px;color:{c};">{date}</div>
 <div class="serif" style="font-size:16px;font-weight:800;color:{INK};text-transform:uppercase;letter-spacing:0.2px;">{title}</div></div>
 <div style="display:flex;align-items:center;gap:8px;"><span class="sans" style="font-size:15px;font-weight:700;color:{c};">{val}</span>
 <div style="width:26px;height:26px;background:{c};border-radius:4px;display:flex;align-items:center;justify-content:center;"><svg width="12" height="12" viewBox="0 0 12 12"><path d="{tri}" fill="#fff"/></svg></div></div></div>'''
-b2=f'''{tag("O PROBLEMA · ABRIL DE 2025", "#E8566C")}
-<h2 class="serif" style="font-size:29px;font-weight:700;line-height:1.1;letter-spacing:-0.4px;color:#fff;margin-bottom:16px;">Em dois dias, o S&amp;P 500 caiu ~10,5%. Muitos venderam.</h2>
+b2=f'''{tag("O PROBLEMA · ABRIL DE 2025", RED)}
+<h2 class="serif" style="font-size:29px;font-weight:700;line-height:1.1;letter-spacing:-0.4px;color:{INK};margin-bottom:16px;">Em dois dias, o S&amp;P 500 caiu ~10,5%. Muitos venderam.</h2>
 {card("3 ABR · TARIFAS","Mercados afundam","−4,8%",False)}
 {card("4 ABR · PÂNICO","Investidores fogem","−6,0%",False)}
 {card("9 ABR · PAUSA NAS TARIFAS","Mercado dispara","+9,5%",True)}
-<p class="sans" style="font-size:13px;color:rgba(255,255,255,0.6);line-height:1.5;margin-top:8px;">Quem vendeu a 4 de abril ficou de fora, três sessões depois, do melhor dia do índice desde 2008.</p>'''
-slides.append(slide(1,DBG,b2,False))
+<p class="sans" style="font-size:13px;color:#6B6B6B;line-height:1.5;margin-top:8px;">Quem vendeu a 4 de abril ficou de fora, três sessões depois, do melhor dia do índice desde 2008.</p>'''
+slides.append(slide(1,LBG,b2,True))
 
 # 3 DATA - J.P. Morgan
 def hbar(label,val,ret,pct,c,txtc):
@@ -84,17 +84,17 @@ slides.append(slide(2,LBG,b3,True))
 # 4 WHY - clustering
 def pair(year,d1,v1,d2,v2):
     return f'''<div style="display:flex;gap:8px;margin-bottom:10px;">
-<div style="flex:0 0 46px;" class="serif"><span style="font-size:22px;font-weight:300;color:{PL};">{year}</span></div>
-<div style="flex:1;background:rgba(200,16,46,0.14);border:1px solid rgba(200,16,46,0.35);border-radius:8px;padding:8px 10px;"><div class="sans" style="font-size:9px;letter-spacing:1px;color:rgba(255,255,255,0.5);">{d1}</div><div class="serif" style="font-size:19px;font-weight:700;color:#FF6B7F;">{v1}</div></div>
-<div style="flex:1;background:rgba(27,127,75,0.18);border:1px solid rgba(79,176,122,0.4);border-radius:8px;padding:8px 10px;"><div class="sans" style="font-size:9px;letter-spacing:1px;color:rgba(255,255,255,0.5);">{d2}</div><div class="serif" style="font-size:19px;font-weight:700;color:{PL};">{v2}</div></div></div>'''
-b4=f'''{tag("PORQUÊ", PL)}
-<h2 class="serif" style="font-size:29px;font-weight:700;line-height:1.1;letter-spacing:-0.4px;color:#fff;margin-bottom:10px;">Os melhores dias escondem-se no meio dos piores.</h2>
-<p class="sans" style="font-size:13px;color:rgba(255,255,255,0.6);line-height:1.5;margin-bottom:16px;"><b style="color:#fff;">7 dos 10 melhores dias</b> dos últimos 20 anos aconteceram a menos de duas semanas dos 10 piores.</p>
+<div style="flex:0 0 46px;" class="serif"><span style="font-size:22px;font-weight:300;color:{INK};">{year}</span></div>
+<div style="flex:1;background:rgba(200,16,46,0.06);border:1px solid rgba(200,16,46,0.3);border-radius:8px;padding:8px 10px;"><div class="sans" style="font-size:9px;letter-spacing:1px;color:#8A8580;">{d1}</div><div class="serif" style="font-size:19px;font-weight:700;color:{RED};">{v1}</div></div>
+<div style="flex:1;background:rgba(27,127,75,0.07);border:1px solid rgba(27,127,75,0.3);border-radius:8px;padding:8px 10px;"><div class="sans" style="font-size:9px;letter-spacing:1px;color:#8A8580;">{d2}</div><div class="serif" style="font-size:19px;font-weight:700;color:{P};">{v2}</div></div></div>'''
+b4=f'''{tag("PORQUÊ", P)}
+<h2 class="serif" style="font-size:29px;font-weight:700;line-height:1.1;letter-spacing:-0.4px;color:{INK};margin-bottom:10px;">Os melhores dias escondem-se no meio dos piores.</h2>
+<p class="sans" style="font-size:13px;color:#6B6B6B;line-height:1.5;margin-bottom:16px;"><b style="color:{INK};">7 dos 10 melhores dias</b> dos últimos 20 anos aconteceram a menos de duas semanas dos 10 piores.</p>
 {pair("2008","15 OUT","−9,0%","13 OUT","+11,6%")}
 {pair("2020","16 MAR","−12,0%","24 MAR","+9,4%")}
 {pair("2025","4 ABR","−6,0%","9 ABR","+9,5%")}
-<p class="sans" style="font-size:12px;color:rgba(255,255,255,0.45);line-height:1.5;margin-top:4px;">Para apanhar o ressalto, tens de estar dentro quando tudo parece pior.</p>'''
-slides.append(slide(3,DBG,b4,False))
+<p class="sans" style="font-size:12px;color:#8A8580;line-height:1.5;margin-top:4px;">Para apanhar o ressalto, tens de estar dentro quando tudo parece pior.</p>'''
+slides.append(slide(3,LBG,b4,True))
 
 # 5 NUANCE (advanced)
 b5=f'''{tag("PARA QUEM JÁ SABE", P)}
@@ -108,26 +108,26 @@ slides.append(slide(4,LBG,b5,True))
 
 # 6 HOW-TO (dark)
 def step(n,t,d):
-    return f'''<div style="display:flex;align-items:flex-start;gap:14px;padding:11px 0;border-bottom:1px solid rgba(255,255,255,0.08);">
-<span class="serif" style="font-size:26px;font-weight:300;color:{PL};min-width:34px;line-height:1;">{n}</span>
-<div><div class="sans" style="font-size:14px;font-weight:600;color:#fff;">{t}</div><div class="sans" style="font-size:12px;color:rgba(255,255,255,0.5);line-height:1.45;margin-top:2px;">{d}</div></div></div>'''
-b6=f'''{tag("O PLANO ANTI-PÂNICO", PL)}
-<h2 class="serif" style="font-size:29px;font-weight:700;line-height:1.1;letter-spacing:-0.4px;color:#fff;margin-bottom:8px;">Decide antes da queda, não durante.</h2>
+    return f'''<div style="display:flex;align-items:flex-start;gap:14px;padding:11px 0;border-bottom:1px solid {LBR};">
+<span class="serif" style="font-size:26px;font-weight:300;color:{P};min-width:34px;line-height:1;">{n}</span>
+<div><div class="sans" style="font-size:14px;font-weight:600;color:{INK};">{t}</div><div class="sans" style="font-size:12px;color:#8A8580;line-height:1.45;margin-top:2px;">{d}</div></div></div>'''
+b6=f'''{tag("O PLANO ANTI-PÂNICO", P)}
+<h2 class="serif" style="font-size:29px;font-weight:700;line-height:1.1;letter-spacing:-0.4px;color:{INK};margin-bottom:8px;">Decide antes da queda, não durante.</h2>
 {step("01","Liquidez fora da bolsa","3 a 6 meses de despesas. Ninguém te obriga a vender no fundo.")}
 {step("02","Alocação definida","Ex.: 80% ações / 20% obrigações, escrita antes de precisares dela.")}
 {step("03","Rebalancear por regra","Só quando o peso se desvia mais de 5 p.p. Nunca por manchete.")}
 {step("04","Investir todos os meses","Nas quedas, o mesmo valor compra mais unidades.")}'''
-slides.append(slide(5,DBG,b6,False))
+slides.append(slide(5,LBG,b6,True))
 
 # 7 CTA
 b7=f'''<div style="text-align:center;display:flex;flex-direction:column;align-items:center;">
-<div style="background:#fff;border-radius:14px;padding:18px 22px 14px;margin-bottom:26px;">{logo(26,line_w=190)}</div>
-<h2 class="serif" style="font-size:28px;font-weight:700;line-height:1.12;letter-spacing:-0.4px;color:#fff;margin-bottom:10px;">O pânico é deles.<br>O plano é teu.</h2>
-<p class="sans" style="font-size:13px;color:rgba(255,255,255,0.75);line-height:1.5;margin-bottom:22px;max-width:290px;">Mercados, macro e geopolítica explicados sem ruído. Para quem já investe e quer fazê-lo melhor.</p>
-<div class="sans" style="display:inline-flex;align-items:center;gap:8px;padding:12px 26px;background:{LBG};color:{PD};font-weight:700;font-size:14px;border-radius:28px;">Segue @panicandprofit</div>
-<p class="sans" style="font-size:11px;color:rgba(255,255,255,0.6);margin-top:12px;">Guarda este post para a próxima queda.</p>
-<p class="sans" style="font-size:8px;letter-spacing:1.5px;color:rgba(255,255,255,0.4);margin-top:18px;">NÃO É ACONSELHAMENTO FINANCEIRO</p></div>'''
-slides.append(slide(6,GRAD,b7,False,last=True,justify="center"))
+<div style="padding:0 0 4px;margin-bottom:26px;">{logo(26,line_w=190)}</div>
+<h2 class="serif" style="font-size:28px;font-weight:700;line-height:1.12;letter-spacing:-0.4px;color:{INK};margin-bottom:10px;">O pânico é deles.<br>O plano é teu.</h2>
+<p class="sans" style="font-size:13px;color:#6B6B6B;line-height:1.5;margin-bottom:22px;max-width:290px;">Mercados, macro e geopolítica explicados sem ruído. Para quem já investe e quer fazê-lo melhor.</p>
+<div class="sans" style="display:inline-flex;align-items:center;gap:8px;padding:12px 26px;background:{P};color:#fff;font-weight:700;font-size:14px;border-radius:28px;">Segue @panicandprofit</div>
+<p class="sans" style="font-size:11px;color:#8A8580;margin-top:12px;">Guarda este post para a próxima queda.</p>
+<p class="sans" style="font-size:8px;letter-spacing:1.5px;color:#A09B95;margin-top:18px;">NÃO É ACONSELHAMENTO FINANCEIRO</p></div>'''
+slides.append(slide(6,LBG,b7,True,last=True,justify="center"))
 
 html=f'''<!DOCTYPE html><html lang="pt-PT"><head><meta charset="utf-8"><meta name="viewport" content="width=device-width,initial-scale=1">
 <title>Panic &amp; Profit — Carrossel</title>
